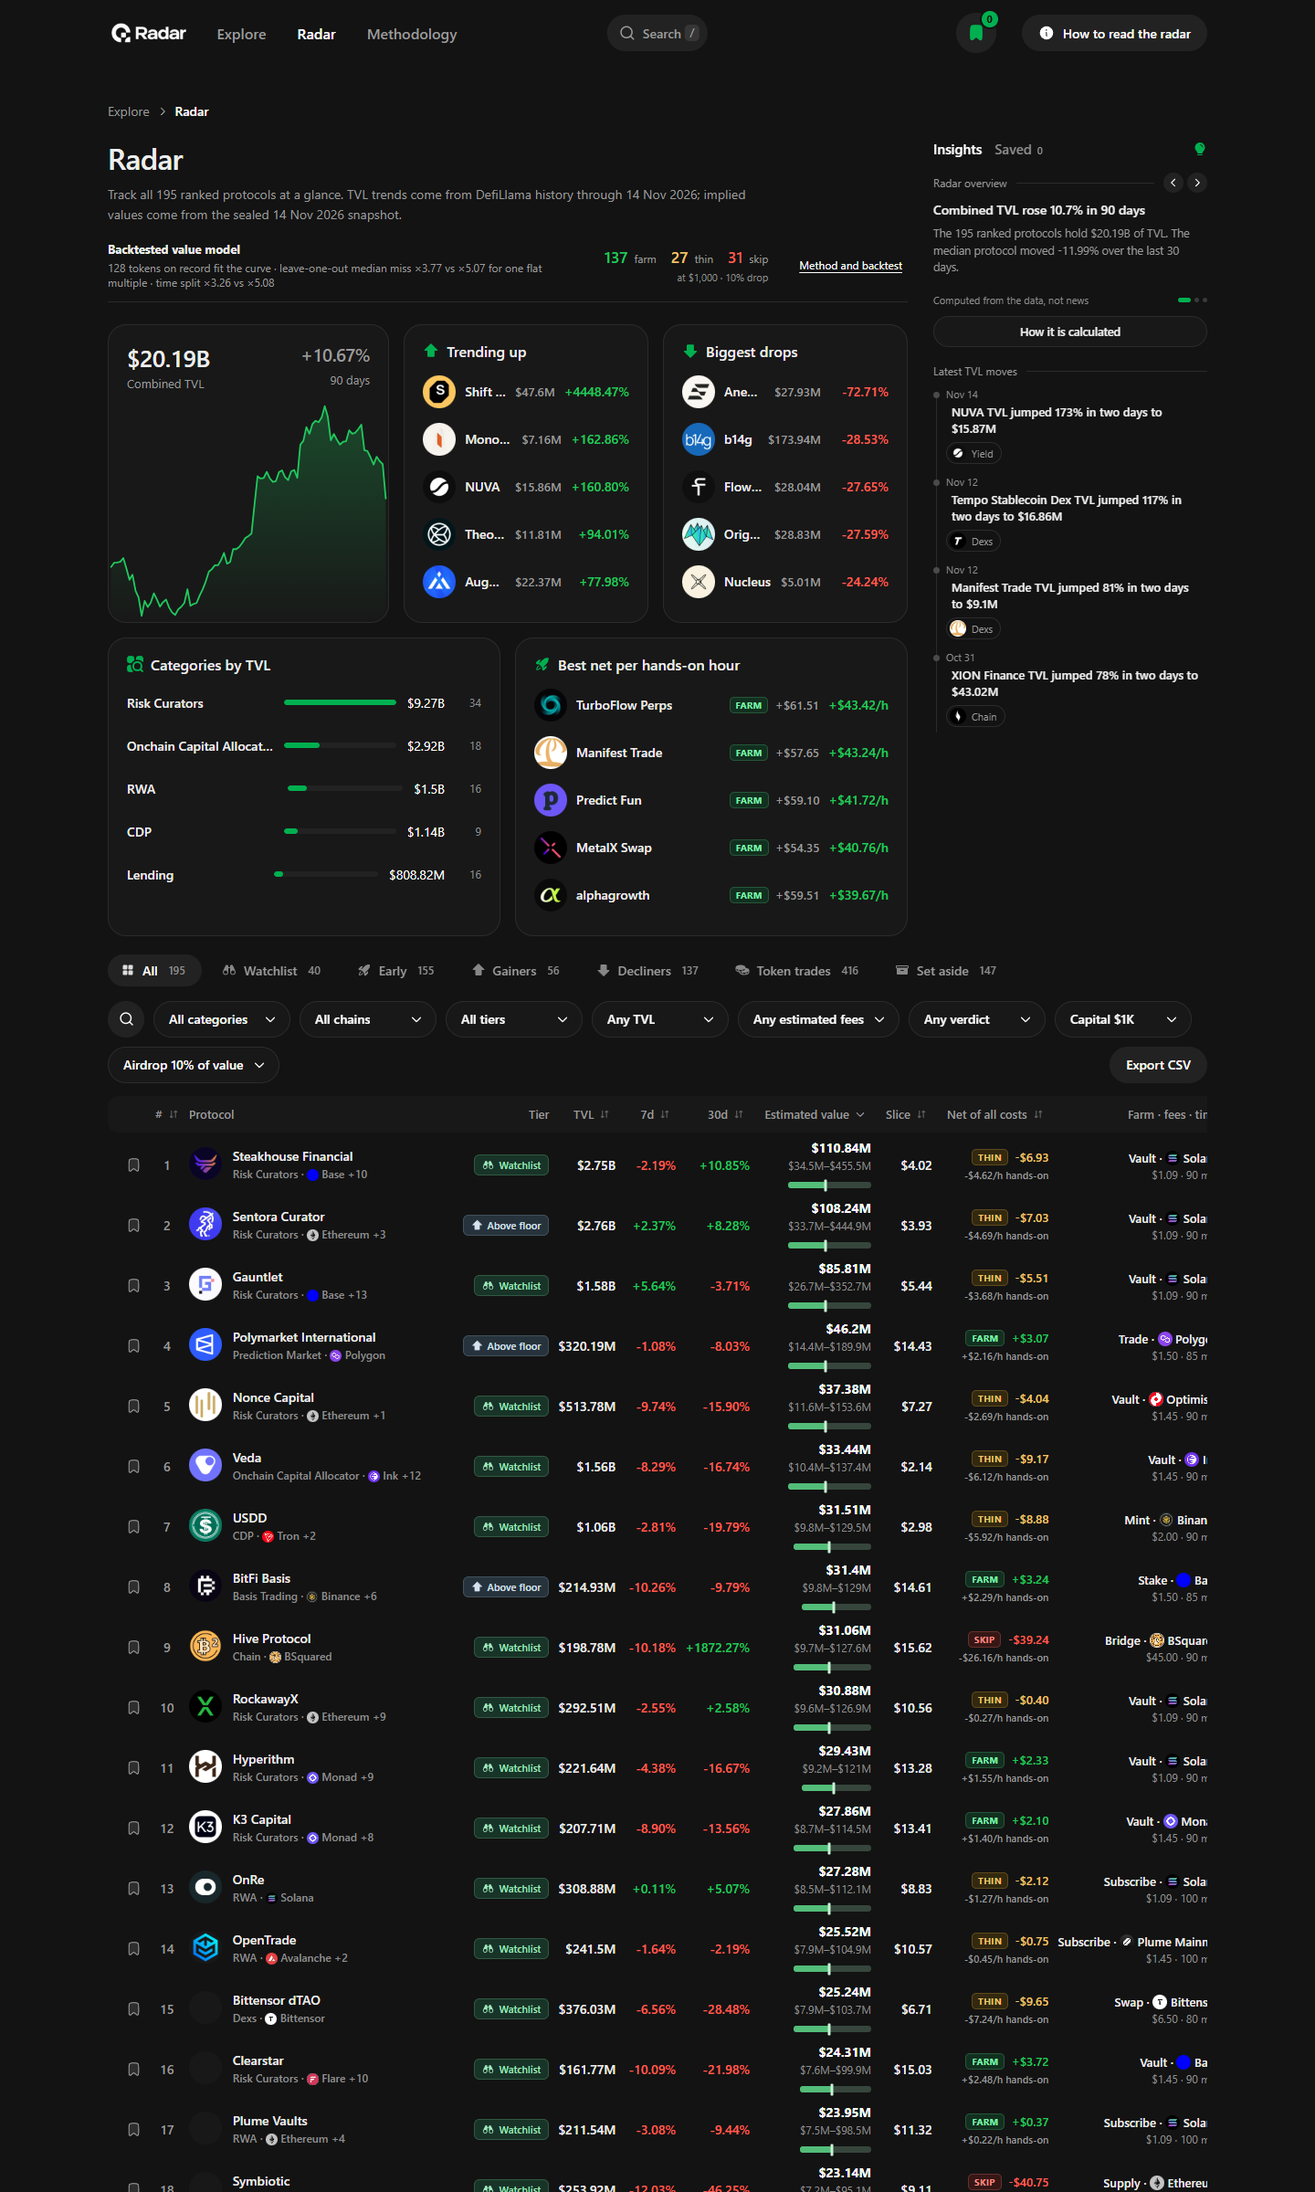
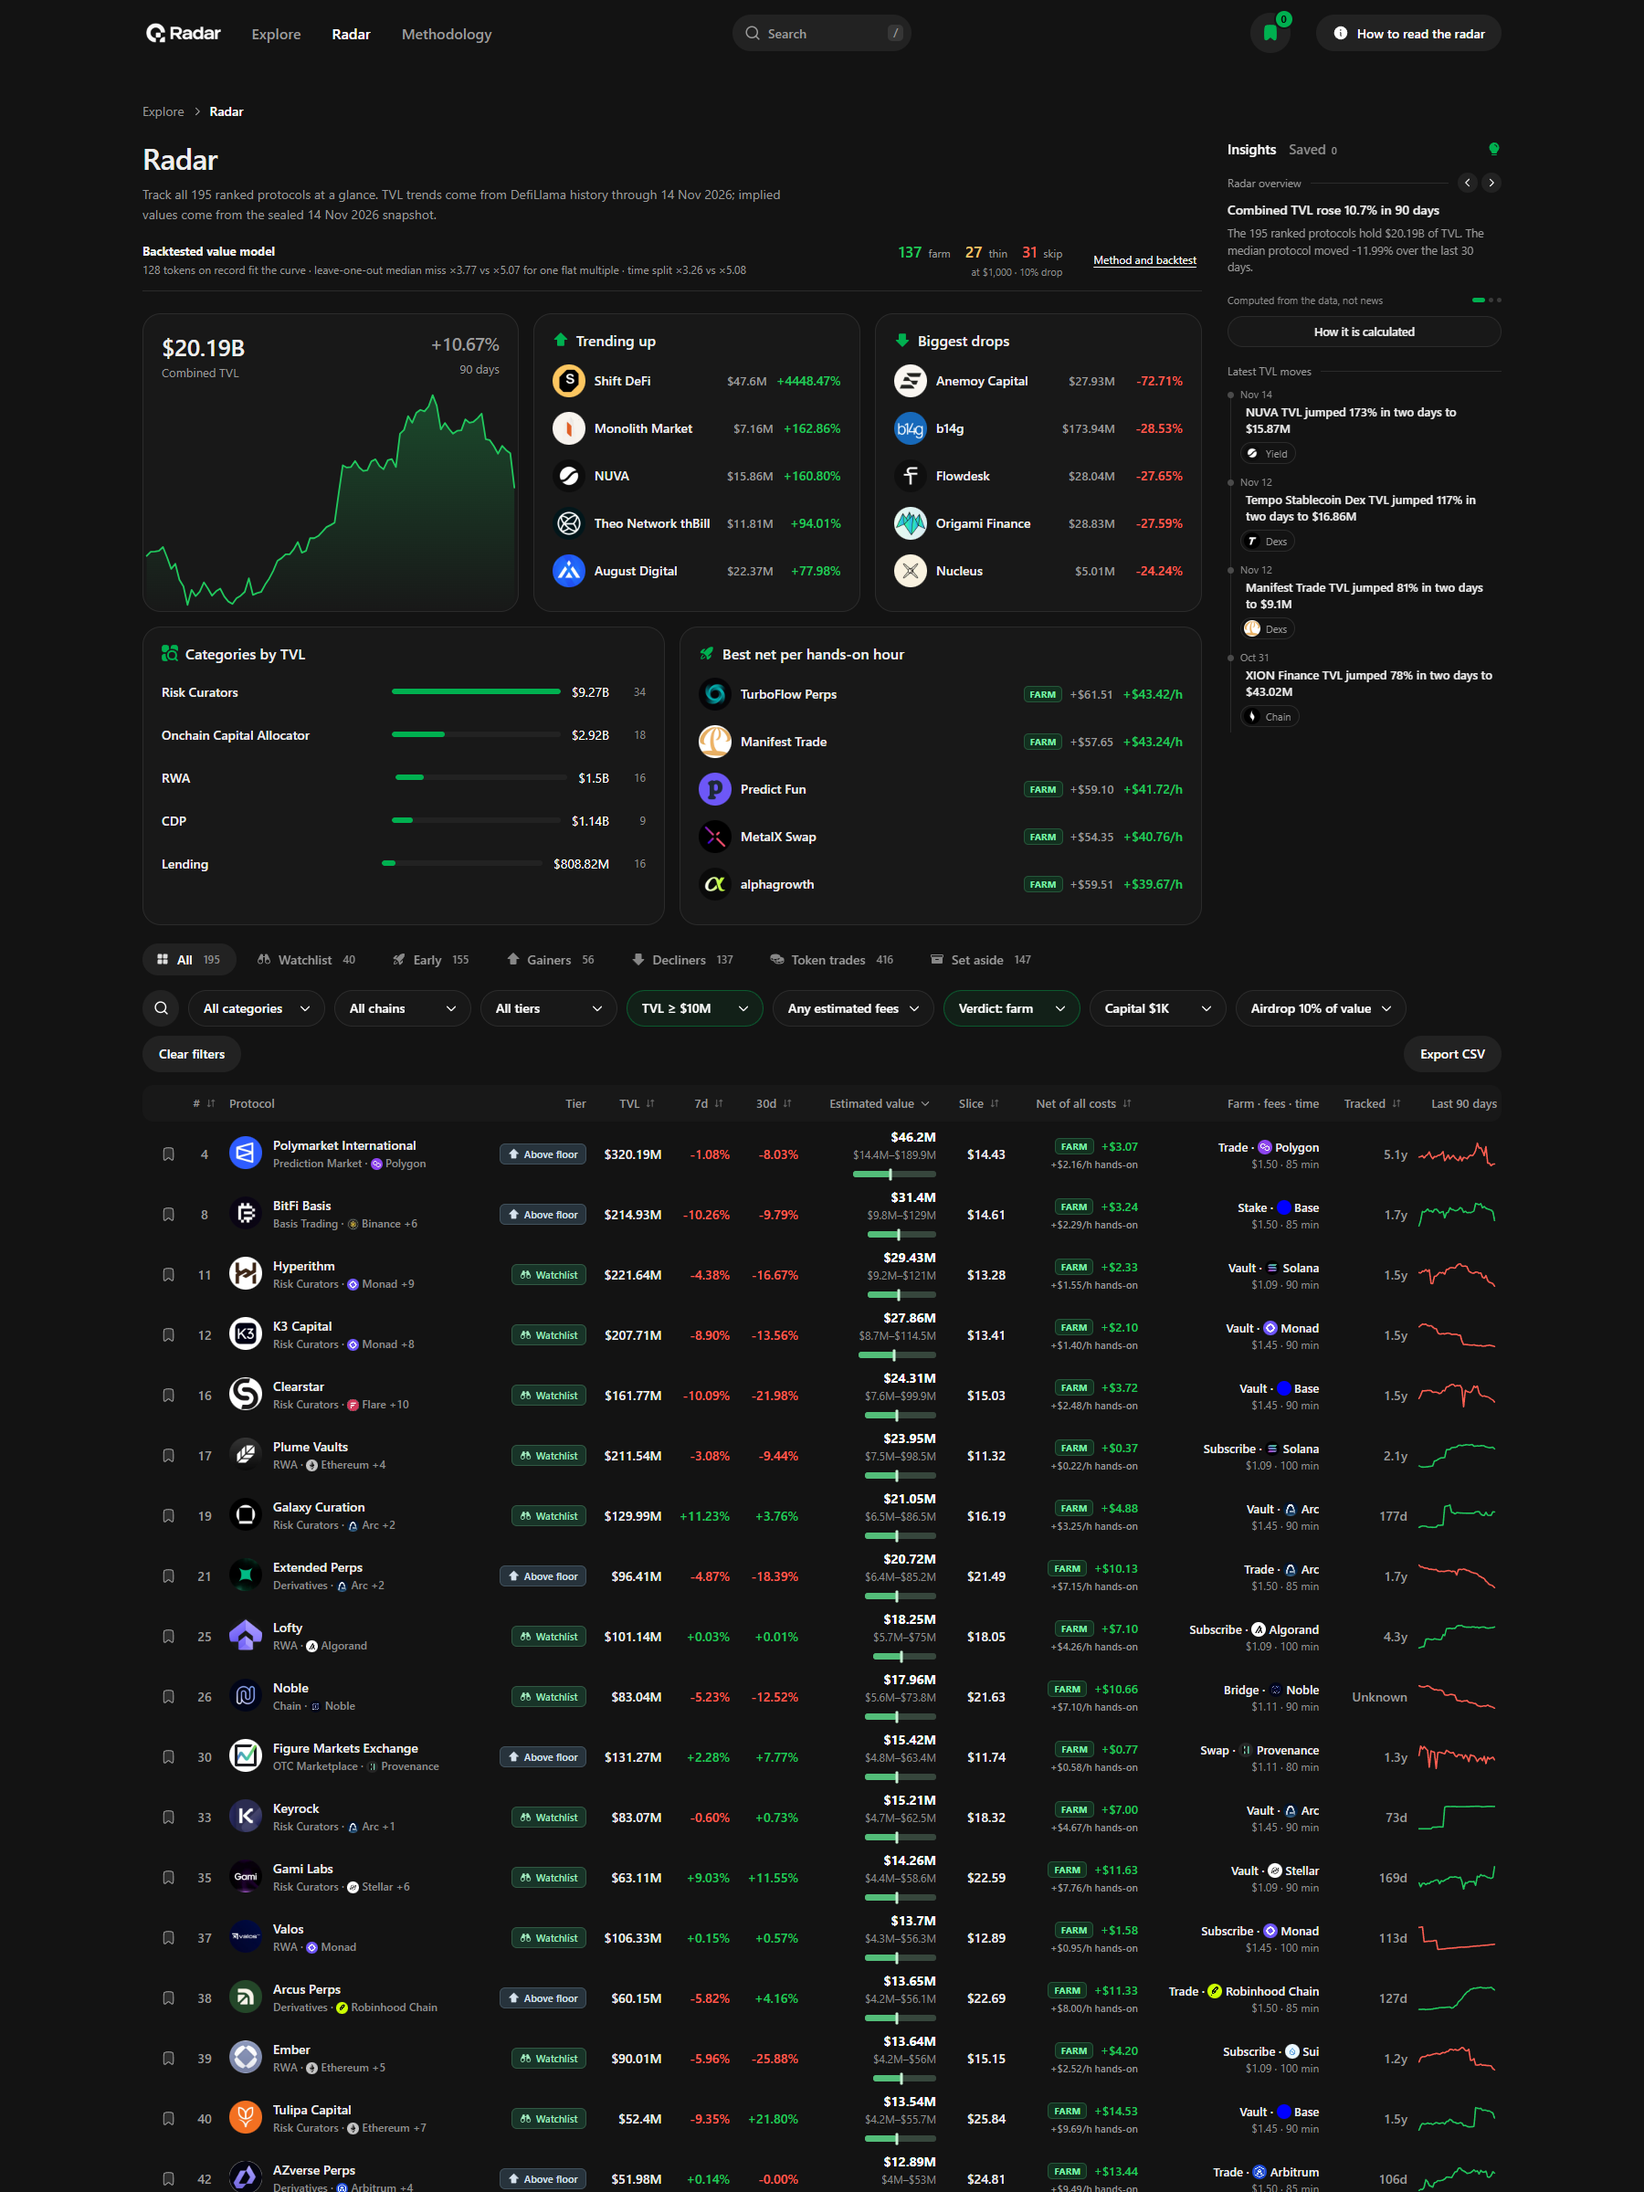
Refactor code structure for improved readability and maintainability

diff --git a/src/features/protocol/ProtocolPage.jsx b/src/features/protocol/ProtocolPage.jsx
@@ -51,6 +51,20 @@ export function ProtocolPage({
   const isSaved = saved.has(protocol.slug);
   const chains = protocol.chains.length ? protocol.chains : [];
   const econ = protocol.economics;
+  const aboutSection = (
+  <section className="detail-block facts-about" aria-labelledby="about-title">
+    <h2 id="about-title">About</h2>
+    <p className="detail-about">
+      {protocol.name} is a {protocol.category ?? 'DeFi'} protocol. The snapshot
+      records no token for it, so the figures here are model estimates, not market prices.
+    </p>
+    <div className="link-pills">
+      <span className="pill-link">
+        <Icon name="globe" size={16} /> Source: DefiLlama · defillama.com/protocol/
+        {protocol.slug}
+      </span>
+    </div>
+  </section>  );
   const analysis = (
     <>
       <ViewToggle view={view} onChange={setView} className="analysis-toggle" />
@@ -59,7 +73,7 @@ export function ProtocolPage({
     </>
   );
   return (
-    <article className="page-shell" aria-label={`${protocol.name} protocol details`}>
+    <article className={`page-shell${compact ? ' is-compact' : ''}`} aria-label={`${protocol.name} protocol details`}>
       <nav className="breadcrumb" aria-label="Breadcrumb">
         <a href="#" onClick={onBack}>
           Explore
@@ -109,7 +123,8 @@ export function ProtocolPage({
       <div className="detail-page-grid">
         <div className="detail-page-main">
           <ProtocolCharts key={protocol.slug} protocol={protocol} />
-          <section className="detail-block" aria-labelledby="stats-title">
+          <div className={`detail-facts${compact ? ' is-compact' : ''}`}>
+          <section className="detail-block facts-stats" aria-labelledby="stats-title">
             <h2 id="stats-title">Stats</h2>
             <dl className="stat-grid">
               <div>
@@ -146,7 +161,7 @@ export function ProtocolPage({
               </div>
             </dl>
           </section>
-          <section className="detail-block" aria-labelledby="chains-title">
+          <section className="detail-block facts-chains" aria-labelledby="chains-title">
             <h2 id="chains-title">Chains on record</h2>
             {chains.length ? (
               <ul className="detail-chains" aria-label="Chains recorded in the snapshot">
@@ -161,19 +176,8 @@ export function ProtocolPage({
               <p className="detail-about">No chains are recorded in this snapshot.</p>
             )}
           </section>
-          <section className="detail-block" aria-labelledby="about-title">
-            <h2 id="about-title">About</h2>
-            <p className="detail-about">
-              {protocol.name} is a {protocol.category ?? 'DeFi'} protocol. The snapshot
-              records no token for it, so the figures here are model estimates, not market prices.
-            </p>
-            <div className="link-pills">
-              <span className="pill-link">
-                <Icon name="globe" size={16} /> Source: DefiLlama · defillama.com/protocol/
-                {protocol.slug}
-              </span>
-            </div>
-          </section>
+          {!compact && aboutSection}
+          </div>
           {!compact && analysis}
         </div>
         <aside className="detail-page-side" aria-label="Research summary">
@@ -219,6 +223,7 @@ export function ProtocolPage({
             A snapshot is a starting point. Verify current token status and product terms before
             interacting.
           </p>
+          {compact && aboutSection}
         </aside>
       </div>
       {compact && <div className="detail-analysis">{analysis}</div>}

diff --git a/src/styles/dialogs.css b/src/styles/dialogs.css
@@ -727,3 +727,120 @@
 .methodology-content.is-compact .backtest-table td {
   padding: 5px 6px;
 }
+
+/* Compact protocol page: About fills the empty space under the summary card, in the sidebar column */
+.detail-page-side .facts-about {
+  padding-top: 18px;
+  border-top: 1px solid var(--line);
+}
+.detail-page-side .facts-about h2 {
+  font-size: 18px;
+  margin-bottom: 10px;
+}
+.detail-page-side .facts-about .detail-about {
+  font-size: 13px;
+}
+.detail-facts.is-compact .detail-block {
+  padding-top: 28px;
+}
+.detail-facts.is-compact .detail-block h2 {
+  font-size: 20px;
+  margin-bottom: 14px;
+}
+.detail-facts.is-compact .stat-grid {
+  gap: 18px 20px;
+}
+.detail-facts.is-compact .stat-grid dd {
+  font-size: 22px;
+}
+
+/* Compact protocol page: tighter header, summary card, stats and chains */
+.page-shell.is-compact .detail-page-header {
+  padding-bottom: 12px;
+}
+.page-shell.is-compact .detail-page-header .mark-large {
+  width: 44px;
+  height: 44px;
+}
+.page-shell.is-compact .detail-title h1 {
+  font-size: 24px;
+}
+.page-shell.is-compact .detail-tag {
+  font-size: 14px;
+}
+.page-shell.is-compact .detail-page-grid {
+  gap: 28px;
+}
+.page-shell.is-compact .detail-page-side {
+  padding-top: 16px;
+  gap: 10px;
+}
+.page-shell.is-compact .side-card-tabs {
+  padding-bottom: 4px;
+}
+.page-shell.is-compact .side-card-tabs span {
+  padding: 5px 12px;
+  font-size: 13px;
+}
+.page-shell.is-compact .side-panel {
+  padding: 12px 16px;
+  border-radius: 14px;
+}
+.page-shell.is-compact .side-panel > span,
+.page-shell.is-compact .side-panel > small {
+  font-size: 12px;
+}
+.page-shell.is-compact .side-panel > strong {
+  font-size: 28px;
+  margin: 3px 0 2px;
+}
+.page-shell.is-compact .side-panel > strong.side-status {
+  font-size: 16px;
+}
+.page-shell.is-compact .detail-page-side .side-plan {
+  height: 42px;
+  border-radius: 14px;
+  font-size: 14px;
+}
+.page-shell.is-compact .detail-page-side .side-cta:not(.is-saved),
+.page-shell.is-compact .detail-page-side .side-cta {
+  height: 40px;
+  font-size: 13px;
+  border-radius: 14px;
+}
+.page-shell.is-compact .detail-bottom-note {
+  margin-top: 8px;
+  padding-top: 10px;
+}
+.page-shell.is-compact .detail-block {
+  padding-top: 20px;
+}
+.page-shell.is-compact .detail-block h2 {
+  font-size: 18px;
+  margin-bottom: 10px;
+}
+.page-shell.is-compact .stat-grid {
+  grid-template-columns: repeat(4, minmax(0, 1fr));
+  gap: 12px 16px;
+}
+.page-shell.is-compact .stat-grid dt {
+  font-size: 11px;
+}
+.page-shell.is-compact .stat-grid dd {
+  font-size: 18px;
+  margin-top: 3px;
+}
+.page-shell.is-compact .detail-chains {
+  gap: 6px;
+}
+.page-shell.is-compact .detail-chains li {
+  padding: 4px 8px;
+  font-size: 12px;
+  gap: 6px;
+}
+.page-shell.is-compact .detail-chains li > * {
+  max-height: 18px;
+}
+.page-shell.is-compact .detail-analysis {
+  margin-top: 8px;
+}

diff --git a/src/features/radar/RadarFilters.jsx b/src/features/radar/RadarFilters.jsx
@@ -3,6 +3,7 @@ import { motion } from 'motion/react';
 import { Icon } from '../../shared/Icon';
 import { Button } from '../../shared/ui';
 import { Dropdown } from '../../components/ui/Dropdown';
+import { ECON } from '../../../lib/economics.mjs';
 import { ExpandSearch } from '../../components/ui/ExpandSearch';
 export function RadarFilters({
   view,
@@ -116,8 +117,8 @@ export function RadarFilters({
           { value: 'THIN', label: 'Verdict: thin' },
           { value: 'SKIP', label: 'Verdict: skip' },
         ]} />
-        <Dropdown label="Capital" value={capital} onChange={(v) => onCapital(Number(v))} options={[1000, 10000, 100000].map((n) => ({ value: n, label: `Capital ${capitalLabel(n)}` }))} />
-        <Dropdown label="Airdrop share of the launch" value={share} onChange={(v) => onShare(Number(v))} options={[0.05, 0.1, 0.2].map((n) => ({ value: n, label: `Airdrop ${n * 100}% of value` }))} />
+        <Dropdown label="Capital" value={capital} defaultValue={ECON.capital} onChange={(v) => onCapital(Number(v))} options={[1000, 10000, 100000].map((n) => ({ value: n, label: `Capital ${capitalLabel(n)}` }))} />
+        <Dropdown label="Airdrop share of the launch" value={share} defaultValue={ECON.share} onChange={(v) => onShare(Number(v))} options={[0.05, 0.1, 0.2].map((n) => ({ value: n, label: `Airdrop ${n * 100}% of value` }))} />
         <Button className="export-button" icon="download" onClick={onExport}>
           Export
         </Button>

diff --git a/src/components/ui/Dropdown.jsx b/src/components/ui/Dropdown.jsx
@@ -5,7 +5,7 @@ import { ChainMark } from './ChainMark';
 /**
  * Rounded custom dropdown (listbox). Options: [{ value, label }].
  */
-export function Dropdown({ label, value, options, onChange, className = '', align = 'left' }) {
+export function Dropdown({ label, value, options, onChange, className = '', align = 'left', defaultValue }) {
   const [open, setOpen] = useState(false);
   const [active, setActive] = useState(0);
   const root = useRef(null);
@@ -15,6 +15,8 @@ export function Dropdown({ label, value, options, onChange, className = '', alig
     options.findIndex((o) => String(o.value) === String(value)),
   );
   const selected = options[selectedIndex];
+  // A filter is active once it leaves its default (the empty "all" option unless told otherwise).
+  const filtered = String(value) !== String(defaultValue ?? '');
 
   useEffect(() => {
     if (!open) return;
@@ -50,7 +52,7 @@ export function Dropdown({ label, value, options, onChange, className = '', alig
     <div className={`dropdown ${className}`} ref={root} onKeyDown={onKeyDown}>
       <button
         type="button"
-        className="dropdown-trigger"
+        className={`dropdown-trigger${filtered ? ' is-filtered' : ''}`}
         aria-label={label}
         aria-haspopup="listbox"
         aria-expanded={open}

diff --git a/src/features/monitor/MonitorPage.jsx b/src/features/monitor/MonitorPage.jsx
@@ -422,12 +422,14 @@ export function MonitorPage({ data, saved, onToggleSave, onSelect, onSelectRefer
                 <Dropdown
                   label="Capital"
                   value={capital}
+                  defaultValue={ECON.capital}
                   onChange={(value) => setCapital(Number(value))}
                   options={ECON.capitals.map((n) => ({ value: n, label: 'Capital ' + capitalLabel(n) }))}
                 />
                 <Dropdown
                   label="Airdrop share of the launch"
                   value={share}
+                  defaultValue={ECON.share}
                   onChange={(value) => setShare(Number(value))}
                   options={ECON.shares.map((n) => ({ value: n, label: 'Airdrop ' + n * 100 + '% of value' }))}
                 />

diff --git a/src/styles/clean.css b/src/styles/clean.css
@@ -1476,3 +1476,14 @@ a:focus-visible {
   gap: 8px;
   flex-wrap: wrap;
 }
+
+/* A dropdown that is filtering: thin green border over a translucent green fill */
+.dropdown-trigger.is-filtered {
+  border-color: #00b05066;
+  background: #00b05014;
+}
+.dropdown-trigger.is-filtered:hover,
+.dropdown-trigger.is-filtered[aria-expanded='true'] {
+  border-color: #00b050aa;
+  background: #00b0501f;
+}

diff --git a/src/features/radar/ProtocolTable.jsx b/src/features/radar/ProtocolTable.jsx
@@ -273,6 +273,7 @@ export function ProtocolTable({
             label="Rows per page"
             align="right"
             value={pagination.pageSize}
+            defaultValue={pagination.pageSize}
             onChange={(size) => table.setPageSize(Number(size))}
             options={[25, 50, 100].map((size) => ({ value: size, label: `${size} / page` }))}
           />
